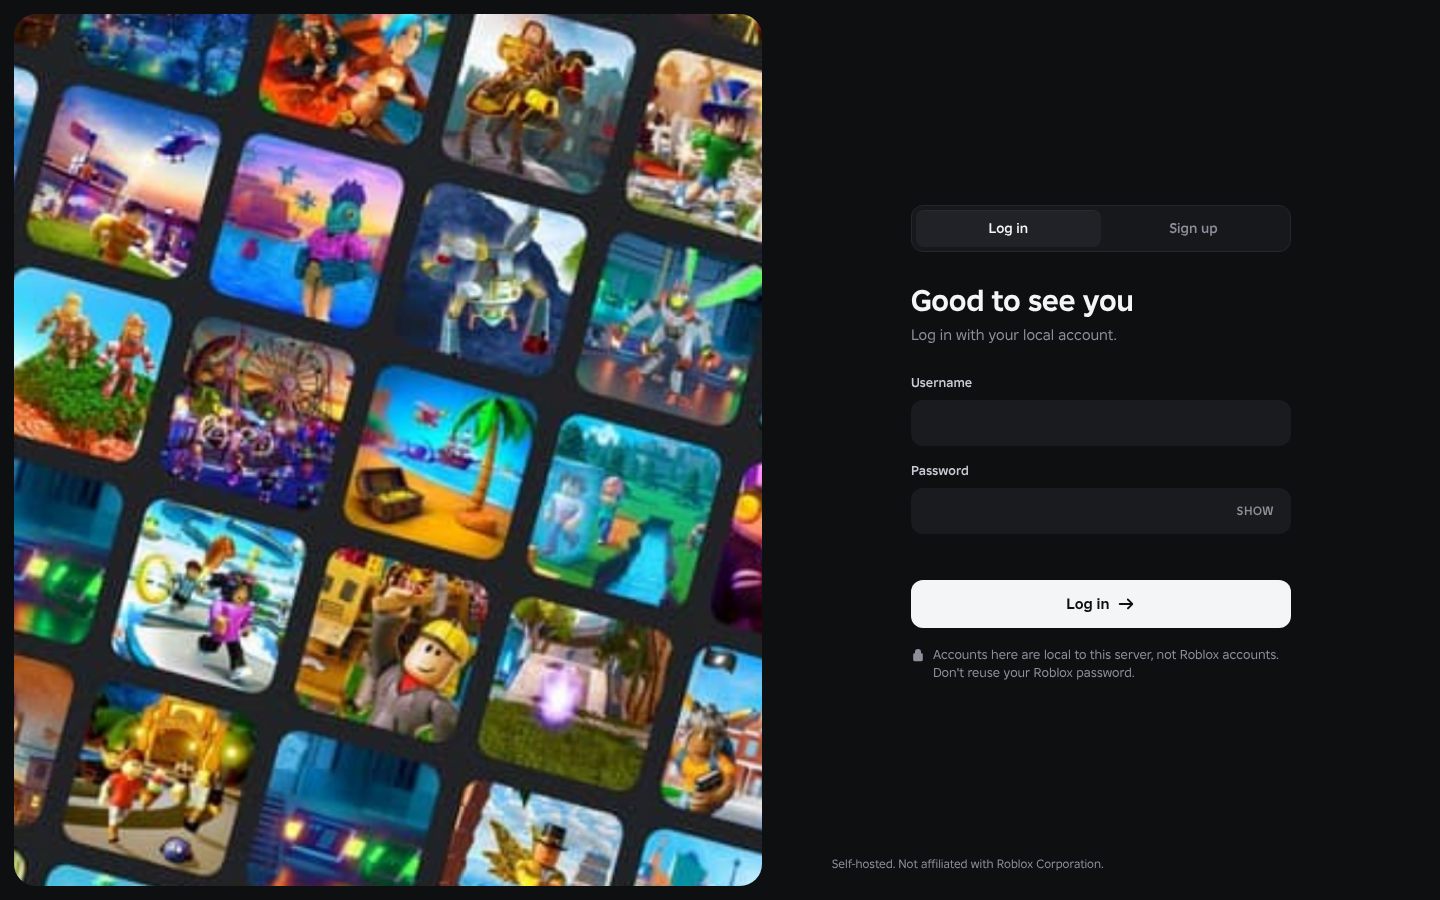
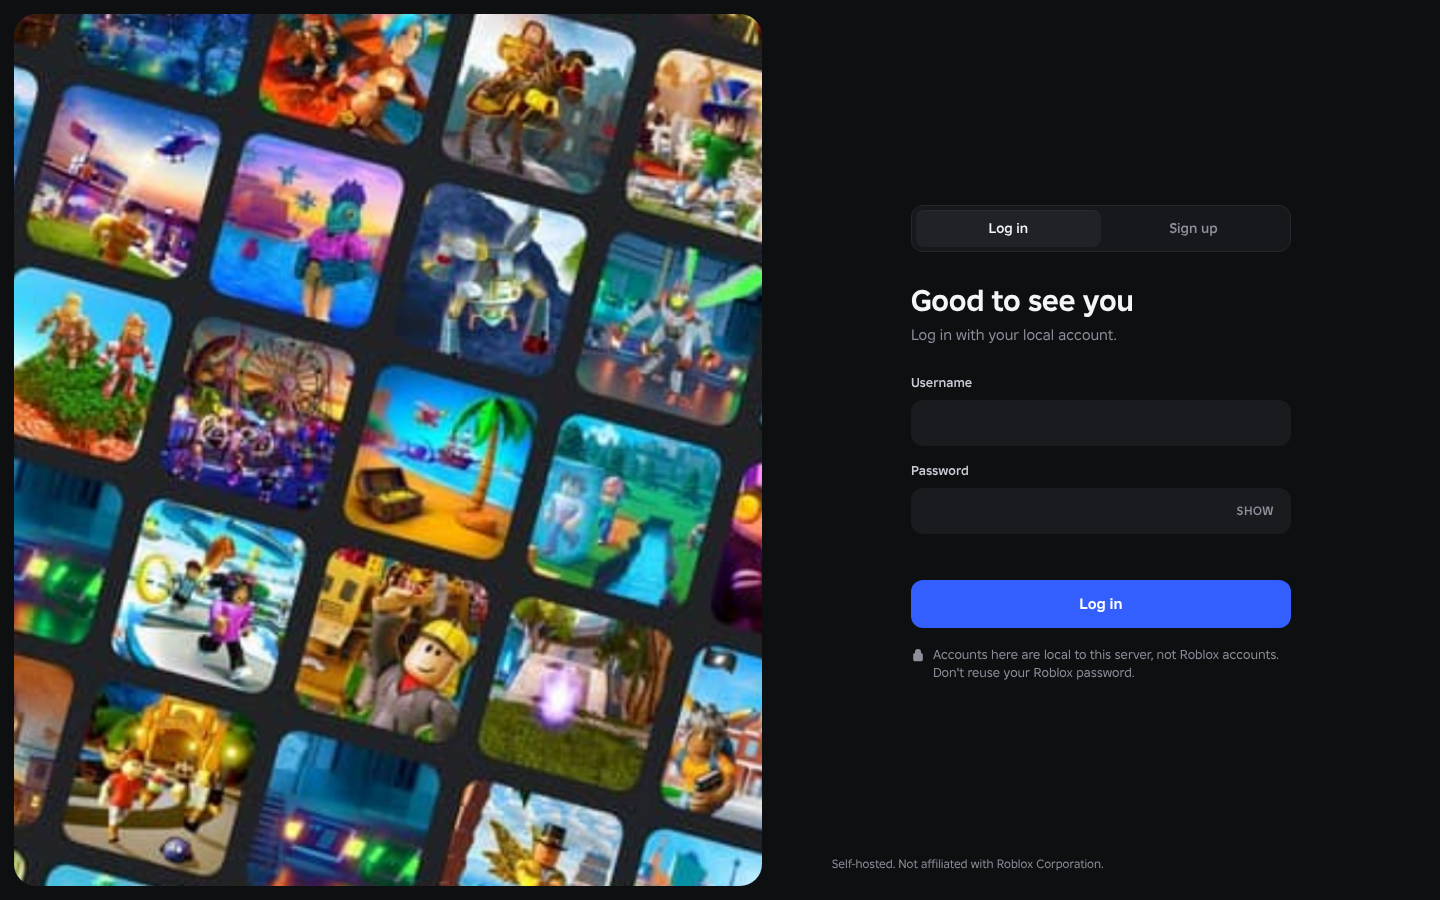
Login page: blue submit button without the arrow
#335fff with white text, lighter on hover.

Claude-Session: https://claude.ai/code/session_01Wp2Bm4qWJKqm9CfQuMmByv

Changed region(s): [[0.625, 0.6222, 0.9062, 0.7156]]

diff --git a/webclient/pages/login.html b/webclient/pages/login.html
@@ -19,7 +19,7 @@
     color-scheme: dark;
     --bg: #0e0f11; --fill: #1a1b1f; --fill-hover: #212227; --seg: #17181b;
     --fg: #f4f5f7; --soft: #c9ccd4; --muted: #8c909b; --line: #26272c;
-    --focus: #7aa2ff; --err: #ff6b62; --cta: #f4f5f7; --cta-fg: #0e0f11;
+    --focus: #7aa2ff; --err: #ff6b62; --cta: #335fff; --cta-hover: #4a70ff; --cta-fg: #fff;
     --sans: "Builder Sans", "Helvetica Neue", Helvetica, Arial, sans-serif;
     --display: "Builder Extended", "Builder Sans", Arial, sans-serif;
   }
@@ -72,10 +72,9 @@
 
   #err { min-height: 20px; margin: 2px 0 10px; color: var(--err); font-size: 14px; }
   .go { display: flex; align-items: center; justify-content: center; gap: 8px; width: 100%; height: 48px; border: 0; border-radius: 12px; background: var(--cta); color: var(--cta-fg); font: 700 15px var(--sans); cursor: pointer; transition: opacity .15s, transform .1s; }
-  .go svg { transition: transform .2s; }
-  .go:hover:not(:disabled) svg { transform: translateX(3px); }
+  .go:hover:not(:disabled) { background: var(--cta-hover); }
   .go:active:not(:disabled) { transform: scale(.99); }
-  .go:focus-visible { outline: 2px solid var(--focus); outline-offset: 3px; }
+  .go:focus-visible { outline: 2px solid #fff; outline-offset: 3px; }
   .go:disabled { opacity: .5; cursor: default; }
   .fine { display: flex; gap: 8px; margin: 18px 0 0; color: var(--muted); font-size: 13px; }
   .fine svg { flex: none; margin-top: 2px; }
@@ -133,9 +132,7 @@
             </div>
           </div>
           <div id="err" role="alert"></div>
-          <button class="go" id="submit"><span id="submit-label">Log in</span>
-            <svg viewBox="0 0 20 20" width="18" height="18" aria-hidden="true"><path fill="currentColor" d="M11.3 4.3a1 1 0 0 1 1.4 0l5 5a1 1 0 0 1 0 1.4l-5 5a1 1 0 0 1-1.4-1.4L14.6 11H3a1 1 0 1 1 0-2h11.6l-3.3-3.3a1 1 0 0 1 0-1.4Z"/></svg>
-          </button>
+          <button class="go" id="submit"><span id="submit-label">Log in</span></button>
         </form>
         <p class="fine">
           <svg viewBox="0 0 16 16" width="14" height="14" aria-hidden="true"><path fill="currentColor" d="M8 1a3.5 3.5 0 0 0-3.5 3.5V6H4a1.5 1.5 0 0 0-1.5 1.5v6A1.5 1.5 0 0 0 4 15h8a1.5 1.5 0 0 0 1.5-1.5v-6A1.5 1.5 0 0 0 12 6h-.5V4.5A3.5 3.5 0 0 0 8 1Zm2 5V4.5a2 2 0 1 0-4 0V6h4Z"/></svg>
